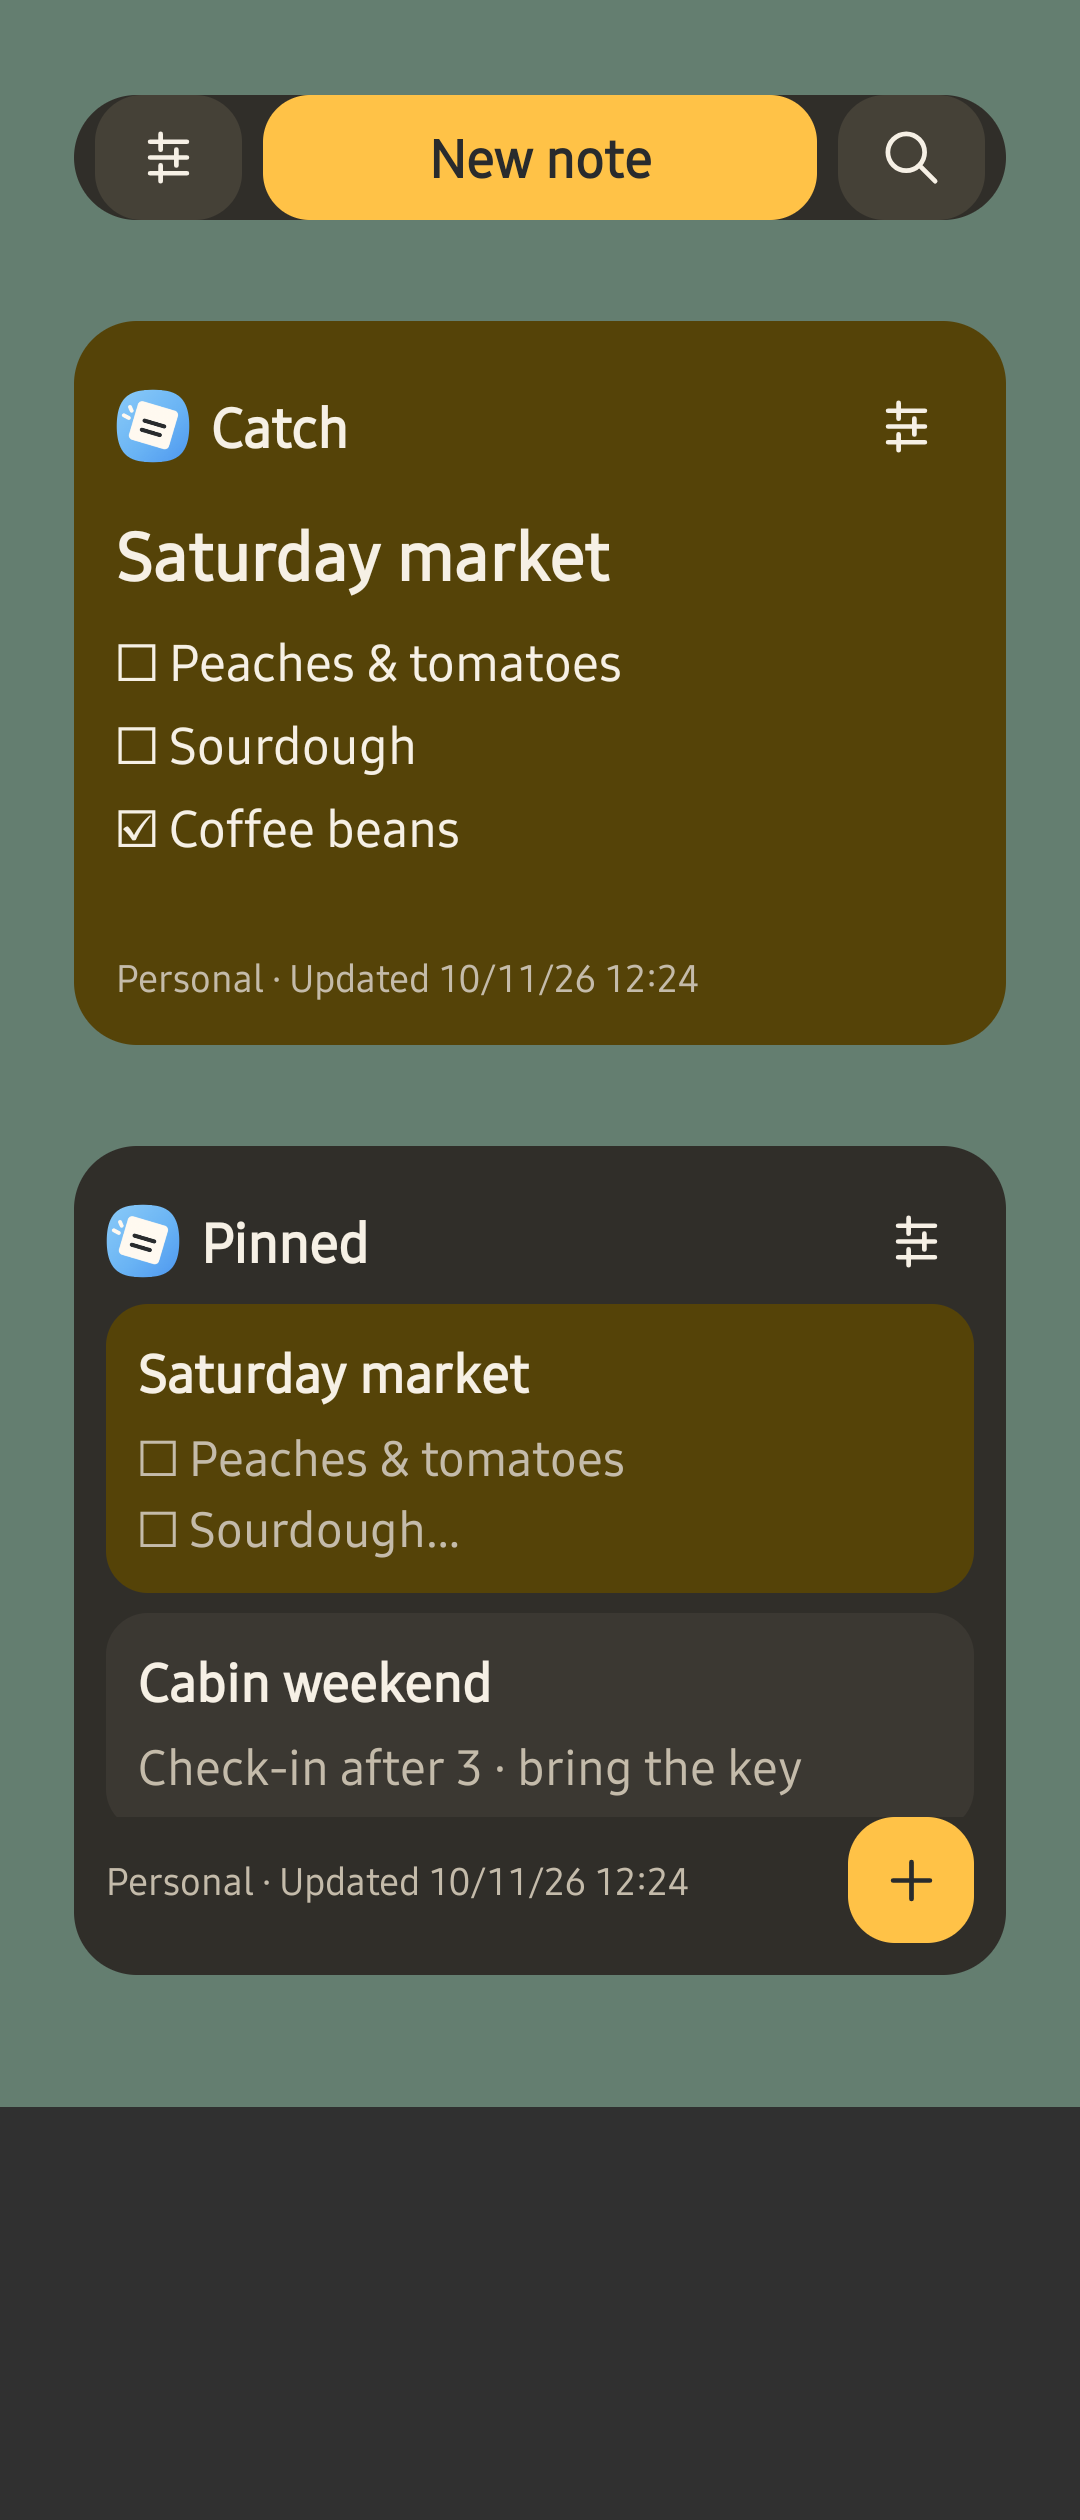
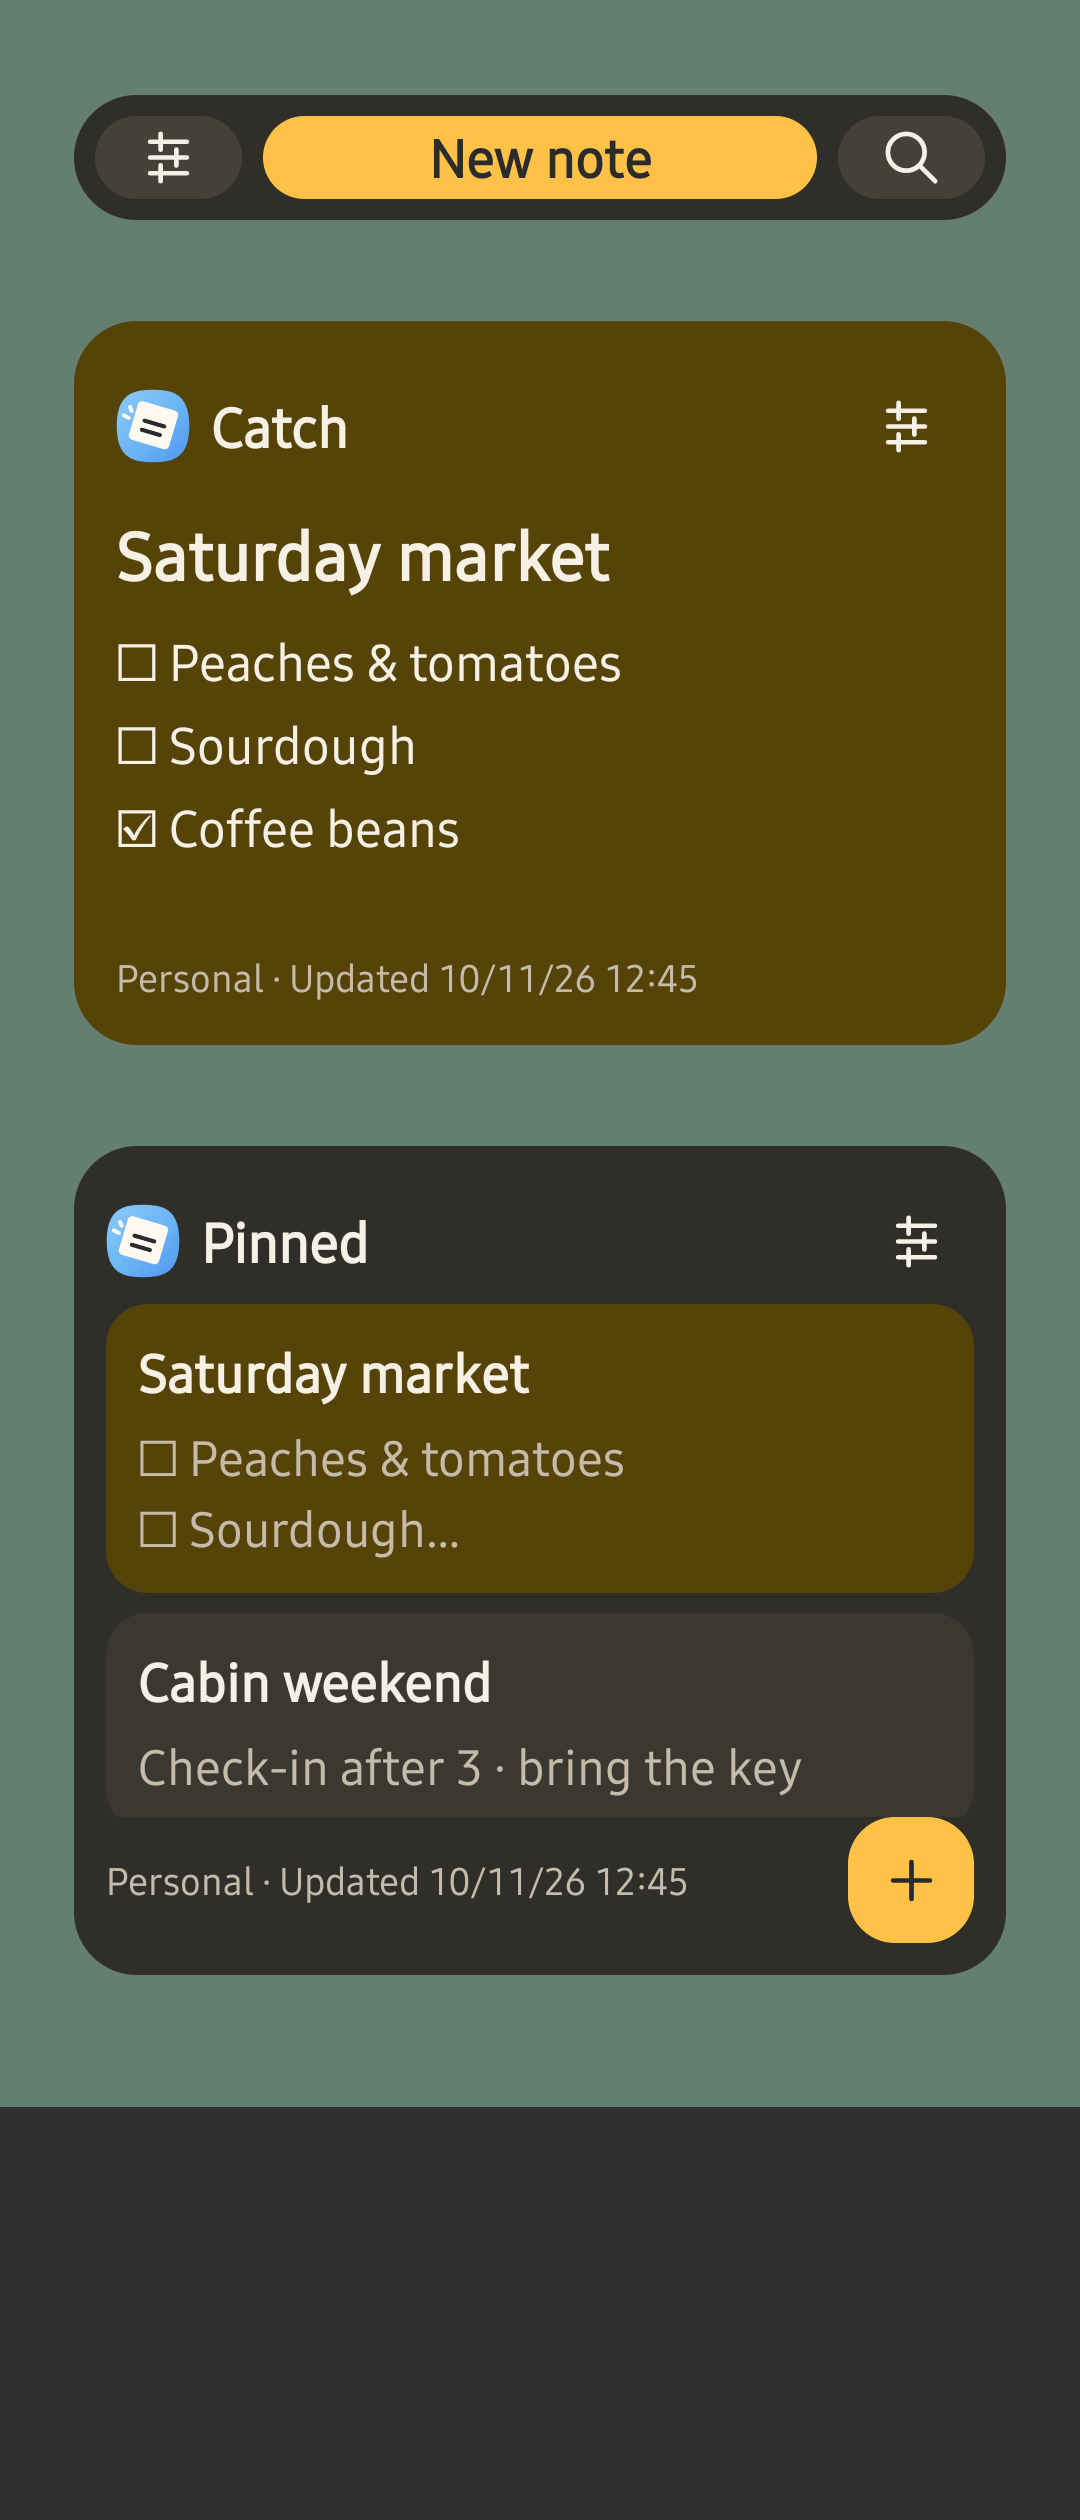
fix(android): restore capture button padding without shrinking touch targets

Changed region(s): [[0.2444, 0.031, 0.7639, 0.0929], [0.6111, 0.7429, 0.6417, 0.7738], [0.6111, 0.3714, 0.6417, 0.4024]]

diff --git a/apps/web/android/app/src/test/java/org/iloni/catchnotes/WidgetLayoutTest.java b/apps/web/android/app/src/test/java/org/iloni/catchnotes/WidgetLayoutTest.java
@@ -79,6 +79,29 @@ public class WidgetLayoutTest {
         android.widget.TextView compose = capture.findViewById(R.id.widget_compose);
         assertTrue(
                 compose.getPaint().measureText(compose.getText().toString()) <= compose.getWidth());
+        assertTrue(
+                compose.getLayout().getHeight()
+                        <= compose.getHeight()
+                                - compose.getCompoundPaddingTop()
+                                - compose.getCompoundPaddingBottom());
+        android.graphics.Bitmap painted =
+                android.graphics.Bitmap.createBitmap(
+                        capture.getWidth(),
+                        capture.getHeight(),
+                        android.graphics.Bitmap.Config.ARGB_8888);
+        capture.draw(new android.graphics.Canvas(painted));
+        for (int button :
+                new int[] {R.id.widget_settings, R.id.widget_compose, R.id.widget_search}) {
+            View control = capture.findViewById(button);
+            android.graphics.Rect bounds =
+                    new android.graphics.Rect(0, 0, control.getWidth(), control.getHeight());
+            ((android.view.ViewGroup) capture).offsetDescendantRectToMyCoords(control, bounds);
+            int inset = Math.round(4 * density);
+            int surface = context.getResources().getColor(R.color.widget_surface_default);
+            assertEquals(surface, painted.getPixel(bounds.centerX(), bounds.top + inset));
+            assertEquals(surface, painted.getPixel(bounds.centerX(), bounds.bottom - inset - 1));
+        }
+        painted.recycle();
         View list =
                 new RemoteViews(context.getPackageName(), R.layout.widget_preview_list)
                         .apply(context, new FrameLayout(context));

diff --git a/apps/web/android/app/src/main/java/org/iloni/catchnotes/CatchWidgetProvider.java b/apps/web/android/app/src/main/java/org/iloni/catchnotes/CatchWidgetProvider.java
@@ -151,7 +151,10 @@ public class CatchWidgetProvider extends AppWidgetProvider {
                             : configureIntent(context, id));
             if (customTheme) {
                 views.setInt(R.id.widget_search, "setColorFilter", ink(dark));
-                int button = dark ? R.drawable.widget_button_dark : R.drawable.widget_button_light;
+                int button =
+                        dark
+                                ? R.drawable.widget_capture_button_dark
+                                : R.drawable.widget_capture_button_light;
                 views.setInt(R.id.widget_settings, "setBackgroundResource", button);
                 views.setInt(R.id.widget_search, "setBackgroundResource", button);
             }
